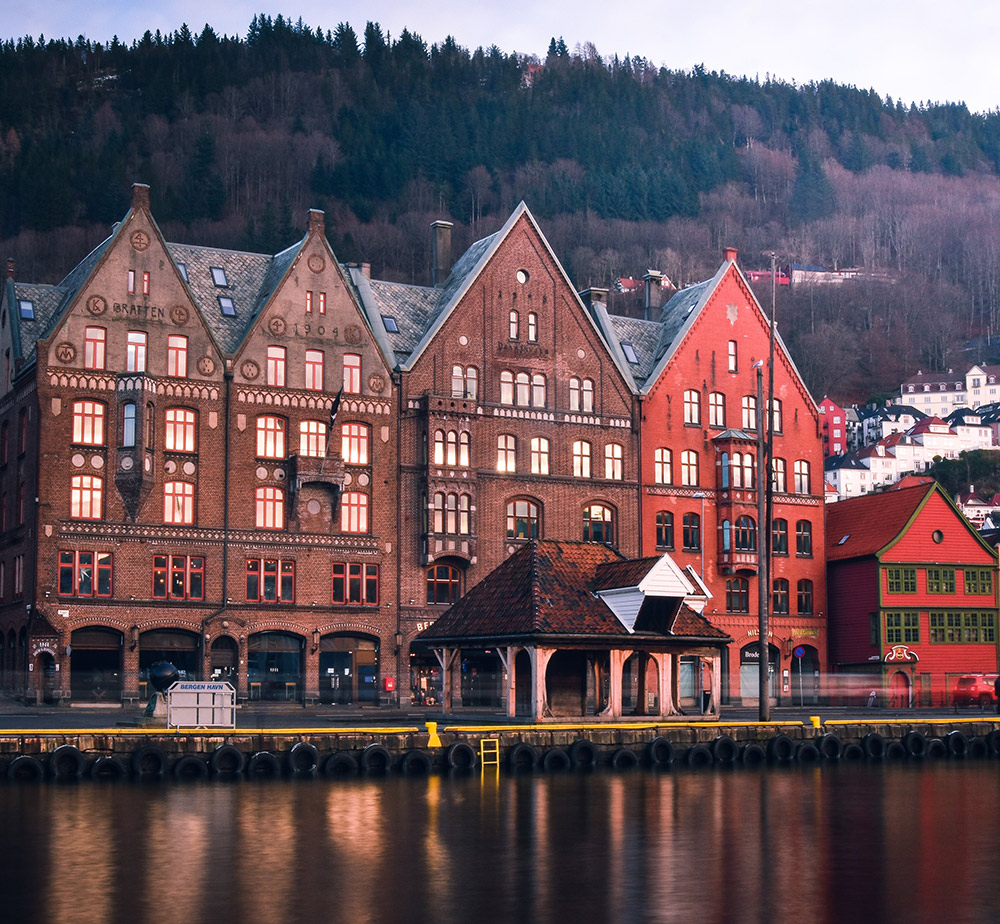
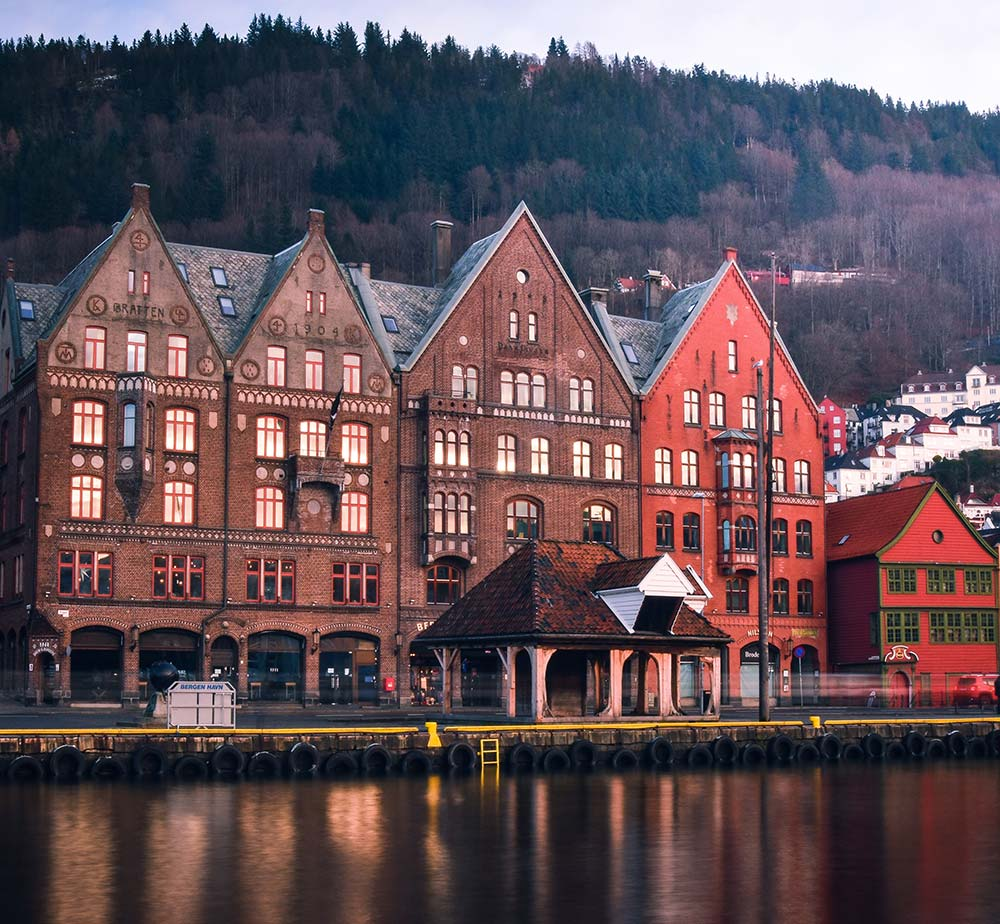
Minimized pictures
made pictures smaller kb

diff --git a/src/sass/partials/_header.scss b/src/sass/partials/_header.scss
@@ -53,14 +53,25 @@
     margin-top: 10px;
 }
 
-a.nav-link__dashboard {
-    border-left: 5px solid $darkPurple;
-    border-bottom: 5px solid $darkPurple;
+.nav-link__admin {
+    background-color: rgba($color: #7C7384, $alpha: 0.6);
     padding-left: 10px;
-    margin-top: 8px;
+    padding: 10px 15px;
+    margin-right: 20px;
+    border-radius: 5px;
+    margin-left: 8px;
+}
+
+a.nav-link__dashboard {
     margin-right: 20px;
 }
 
 a.nav-link__dashboard.active {
-    color: $mediumPurple;
+    color: $darkPurple;
+    text-decoration: underline;
+}
+
+a.nav-link__dashboard:hover {
+    text-decoration: underline;
+    color: $darkPurple;
 }

diff --git a/src/components/layout/Navigation.js b/src/components/layout/Navigation.js
@@ -26,11 +26,13 @@ function Navigation() {
 
           {user ? (
             <>
-              <NavLink to="/admin" className="nav-link__dashboard">
-                Dashboard
-              </NavLink>
+              <div className="nav-link__admin">
+                <NavLink to="/admin" className="nav-link__dashboard">
+                  Dashboard
+                </NavLink>
 
-              <Logout />
+                <Logout />
+              </div>
             </>
           ) : (
             <>

diff --git a/src/sass/partials/auth.scss b/src/sass/partials/auth.scss
@@ -31,4 +31,15 @@ textarea.form-control {
 .logout__button {
     width: 130px;
     padding-top: 4px;
+    float: right;
+    margin-top: 0px;
+    background-color: $darkPurple;
+    color: $pink;
+    border: 3px solid $pink;
+}
+
+.logout__button:hover {
+    background-color: $pink;
+    color: $darkPurple;
+    border: 3px solid $darkPurple;
 }
